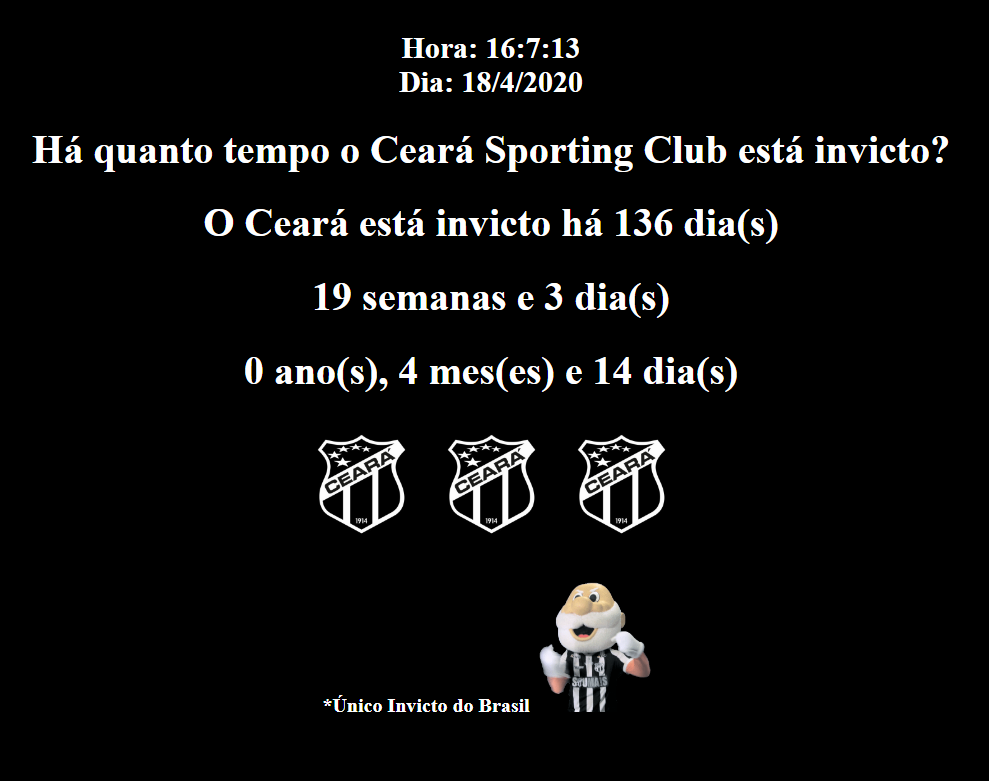
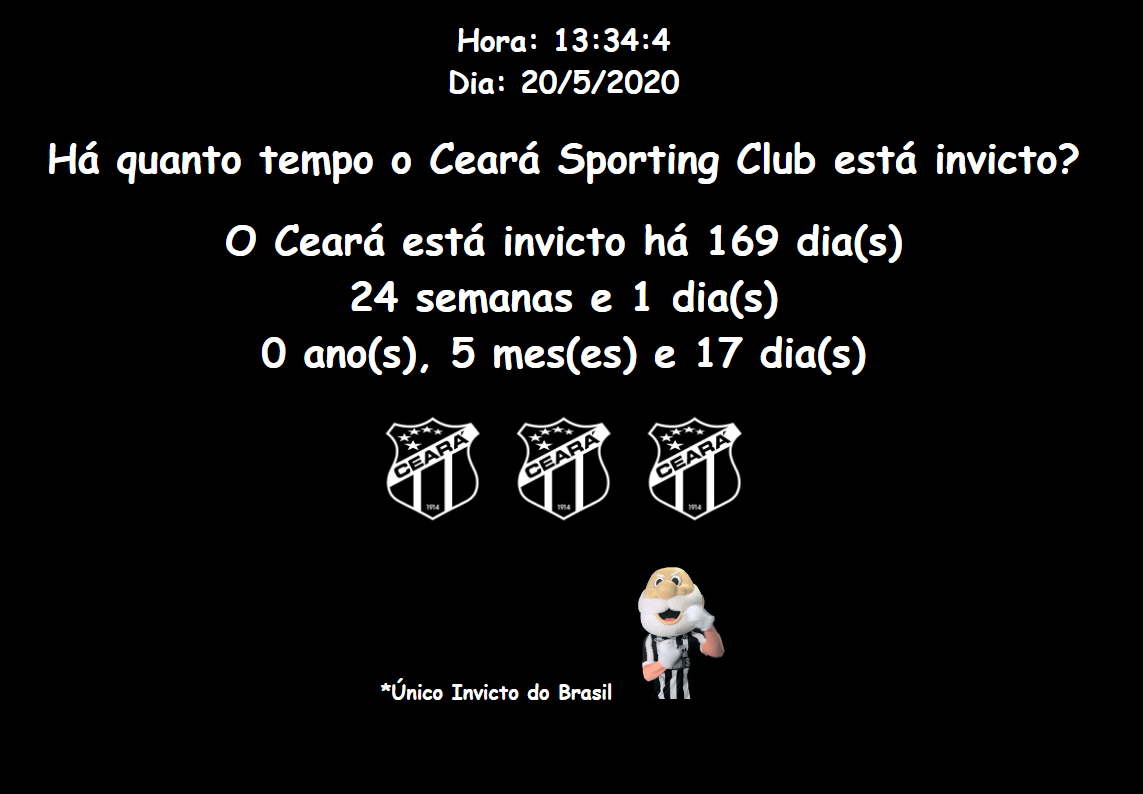
Atualizando CSS , migração para repositório próprios

diff --git a/resources/js/invencibilidade.js b/resources/js/invencibilidade.js
@@ -1,0 +1,18 @@
+var data = new Date()
+const oneDay = 24 * 60 * 60 * 1000; // hours*minutes*seconds*milliseconds
+const firstDate = new Date(2019, 12, 04);
+const secondDate = new Date(data.getFullYear(), data.getMonth() + 1, data.getDate());
+const diffDays = Math.round(Math.abs((firstDate - secondDate) / oneDay)) + 1
+
+document.write(`O Ceará está invicto há ${diffDays} dia(s)`)
+document.write("<br>")
+
+const week = Math.floor(diffDays / 7)
+const dias_rw = diffDays % 7
+document.write(`${week} semanas e ${dias_rw} dia(s)`)
+document.write("<br>")
+
+const ano = 0
+const mes = Math.floor(diffDays / 30)
+const dias_rm = (diffDays % 30) - 2
+document.write(`${ano} ano(s), ${mes} mes(es) e ${dias_rm} dia(s)`)

diff --git a/resources/css/central.css b/resources/css/central.css
@@ -5,19 +5,18 @@
     padding: 0px;
 }
 
+#textoP:hover {
+    background-color: white;
+    color: black;
+}
+
 body {
     height: 100%;
     width: 500px;
     margin: 0px auto;
     background-color: black;
     padding: 0px;
-}
-
-.fundo {
-    height: 100%;
-    margin: 0;
-    padding: 0%;
-    background-color: black;
+    font-family: 'Balsamiq Sans', cursive;
 }
 
 #site {

diff --git a/index.js b/index.js
@@ -2,9 +2,9 @@ const express = require("express")
 const app = express()
 
 app.set("view engine", "ejs")
-app.set("views", "./public")
+app.set("views", "./resources/views")
 
-app.use(express.static(__dirname + '/public'))
+app.use(express.static(__dirname + '/resources'))
 app.listen(process.env.PORT || 3000);
 
 app.get("/", function(req, res) {

diff --git a/resources/js/HoraDia.js b/resources/js/HoraDia.js
@@ -1,0 +1,4 @@
+var data = new Date()
+document.write(`Hora: ${data.getHours()}:${data.getMinutes()}:${data.getSeconds()}`)
+document.write("<br>")
+document.write(`Dia: ${data.getDate()}/${data.getMonth()+1}/${data.getFullYear()}`)
